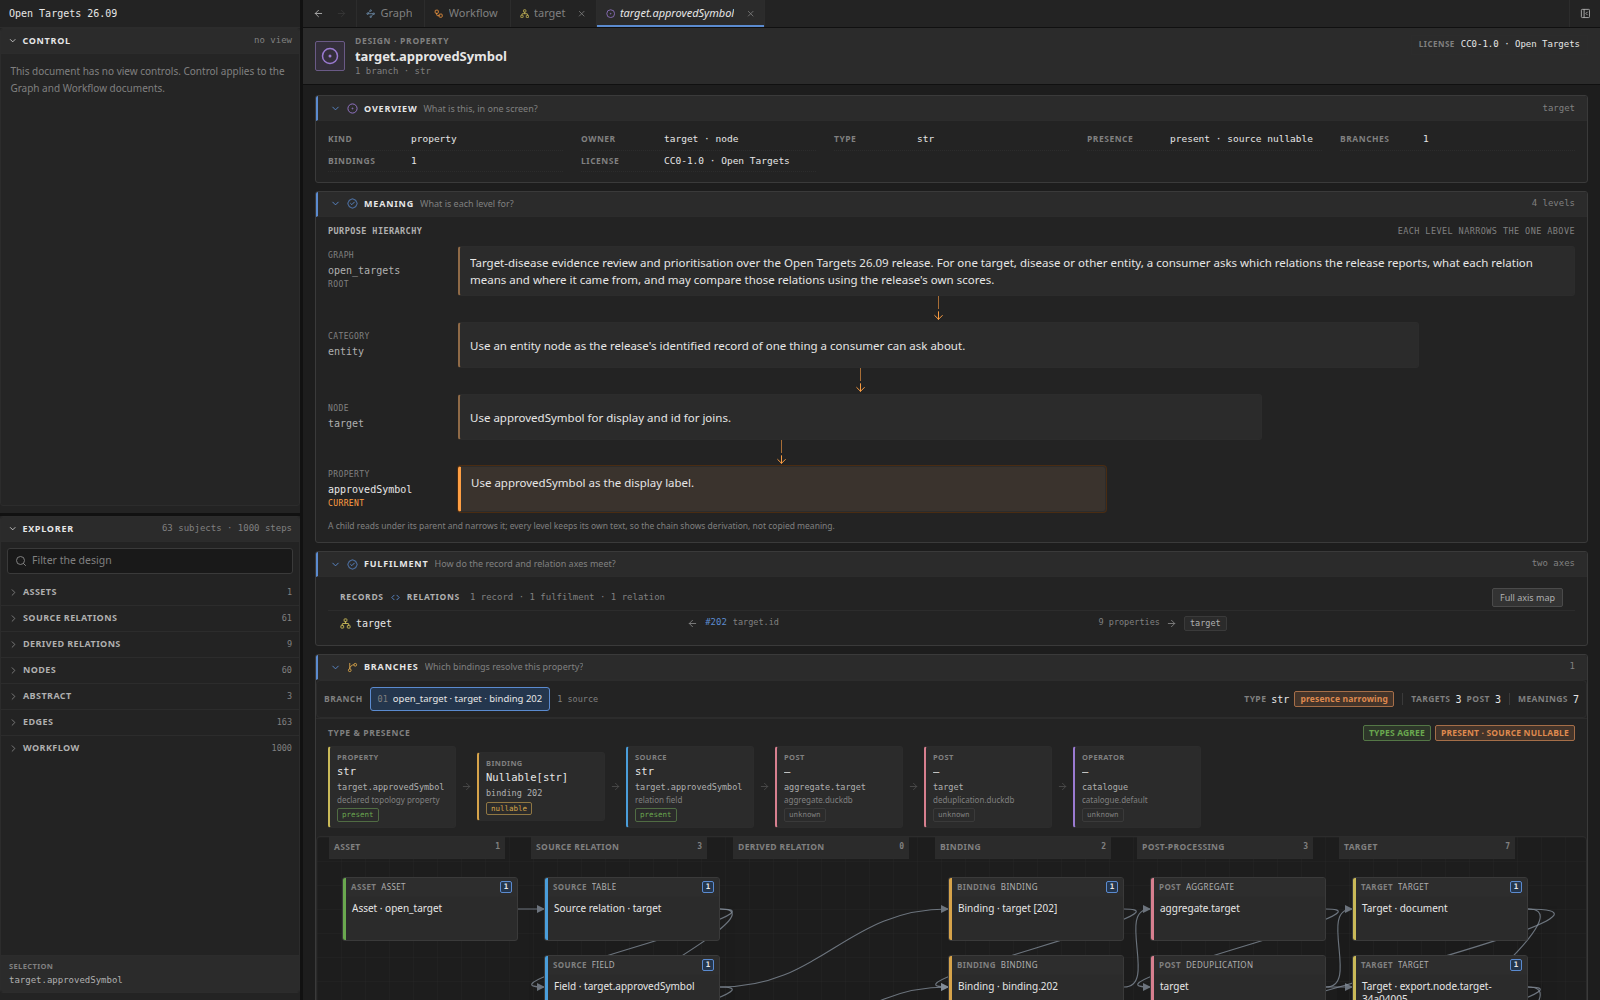
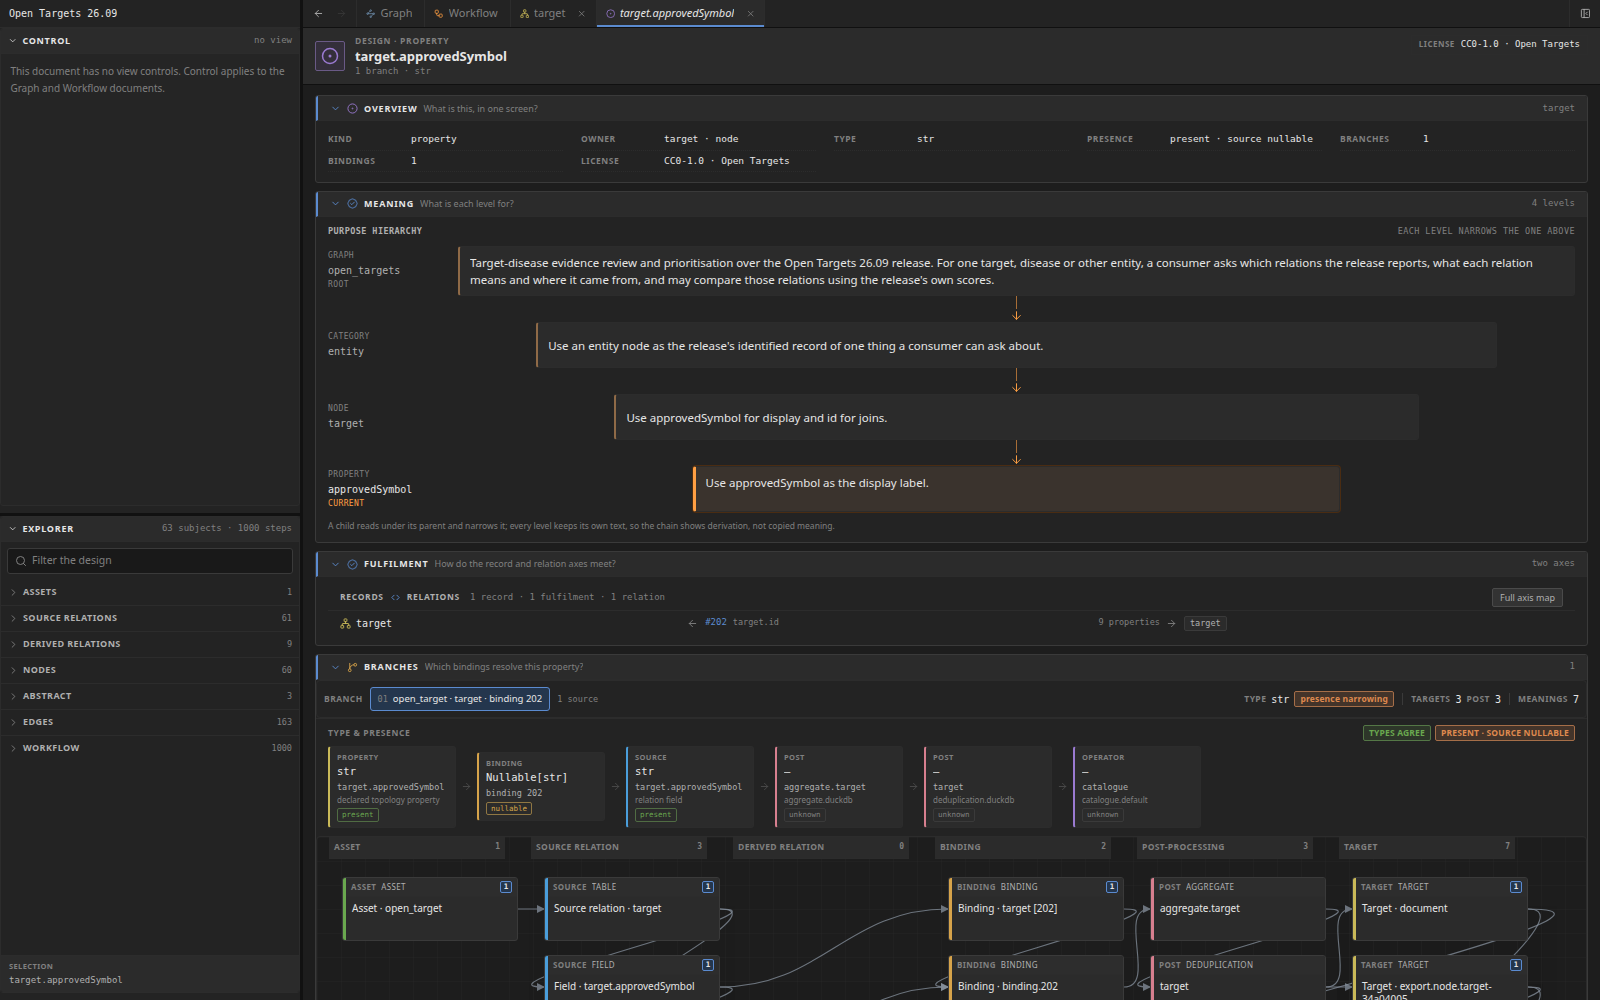
Centre the tapered purpose boxes under left labels

Changed region(s): [[0.2812, 0.341, 0.6562, 0.372], [0.2812, 0.465, 0.5938, 0.496], [0.2812, 0.403, 0.5625, 0.434]]

diff --git a/viewer/shared/design/design.module.css b/viewer/shared/design/design.module.css
@@ -252,6 +252,7 @@
   min-width: 0;
   flex-direction: column;
   align-items: center;
+  justify-self: center;
   color: var(--color-selection);
 }
 
@@ -266,6 +267,7 @@
   display: block;
   overflow: hidden;
   min-width: 0;
+  margin-inline: auto;
   min-height: 46px;
   max-height: 68px;
   border: 1px solid var(--color-line-soft);

diff --git a/viewer/HIERARCHY.md b/viewer/HIERARCHY.md
@@ -57,7 +57,7 @@ position.
 | **Step** | one workflow step's instruction, payload, openings, connections and blueprint bindings on the same detail surface as node and subject documents; opened from the workflow section of Explorer |
 | **Source relation** | a source relation's identity, contract, owning asset, columns, indented expression outline from the relation back through its fields to the asset, and its purpose in the shared Meaning band; the effective licence is in the banner |
 | **Derived relation** | a derived relation's identity, contract, columns, row source, indented expression outline from each column back through its operators and row source to the asset, and its purpose in the shared Meaning band; the effective licence is in the banner |
-| **Subject** (node, edge, property, asset, abstract) | provenance assets, source relations and derived relations first for node, edge and property; asset and relation references are navigable to their own documents; the effective licence is in the banner; a pannable, zoomable narrowed workflow graph and an indented expression outline of the actual field and operator chain from the current item back to its provenance assets follows, then the left-labelled, tapering purpose chain (root → current, each level narrowing the one above), properties and, for a property, provenance lanes and type/presence |
+| **Subject** (node, edge, property, asset, abstract) | provenance assets, source relations and derived relations first for node, edge and property; asset and relation references are navigable to their own documents; the effective licence is in the banner; a pannable, zoomable narrowed workflow graph and an indented expression outline of the actual field and operator chain from the current item back to its provenance assets follows, then the left-labelled, centred-taper purpose chain (root → current, each level narrowing the one above), properties and, for a property, provenance lanes and type/presence |
 
 A node or property click in the canvas only changes transient inspection.
 Single-clicking an Explorer row opens or reuses one preview tab; double-clicking

diff --git a/viewer/DETAIL_CONTENT.md b/viewer/DETAIL_CONTENT.md
@@ -16,7 +16,7 @@ includes by their immediate importance to a reader; it never renames one. A
 | Order | Section | Question it answers | Content |
 | --- | --- | --- | --- |
 | 1 | **Overview** | What is this, in one screen? | One fact grid: kind, labels, identity, owner or endpoints, counts and licence. |
-| 2 | **Meaning** | What is each level for? | One confined purpose box per level: graph → category → component → property, the label sits on the left; the purpose box tapers from the widest root to the narrowest current box on the right, with an accent arrow centred over each child box. Each box shows only the purpose, clamped to three lines; a longer purpose hides its remainder. The current level is tinted and marked; the scheme is derivation (a level narrows the one above), not copied text. No claims or limitations appear in this band. |
+| 2 | **Meaning** | What is each level for? | One confined purpose box per level: graph → category → component → property, labels on the left; the centred purpose boxes taper symmetrically from the widest root to the narrowest current box, with an accent arrow centred over each child box. Each box shows only the purpose, clamped to three lines; a longer purpose hides its remainder. The current level is tinted and marked; the scheme is derivation (a level narrows the one above), not copied text. No claims or limitations appear in this band. |
 | 3 | **Fulfilment** | How do the record and relation axes meet? | The axis map: graph records, the binding, the domain relations. Compact by default; one control reveals the full three-column map. |
 | 4 | **Sources** | Where does this value come from? | Assets, source relations and derived relations, as navigable references with counts. |
 | 5 | **Build steps** | How is this built? | The narrowed workflow graph of the steps that produce the subject. |

diff --git a/viewer/DESIGN_LANGUAGE.md b/viewer/DESIGN_LANGUAGE.md
@@ -81,8 +81,8 @@ A kind includes or omits a section; it never renames one for itself.
 - **Overview** is one fact grid: kind, labels, identity, owner or endpoints,
   counts and licence.
 - **Meaning** is a compact purpose chain. On the record axis it reads the
-  graph purpose downward through category and component to property: the label
-  sits on the left, and the purpose box tapers 14% per level to the right, each
+  graph purpose downward through category and component to property: the labels
+  sit on the left, and the centred purpose boxes taper 14% per level, each
   joined by an accent arrow centred over the child box; each box shows only its
   purpose. The root is marked, the current level is tinted and accented,
   and the box is constrained so a long purpose clamps and the rest stays hidden.
